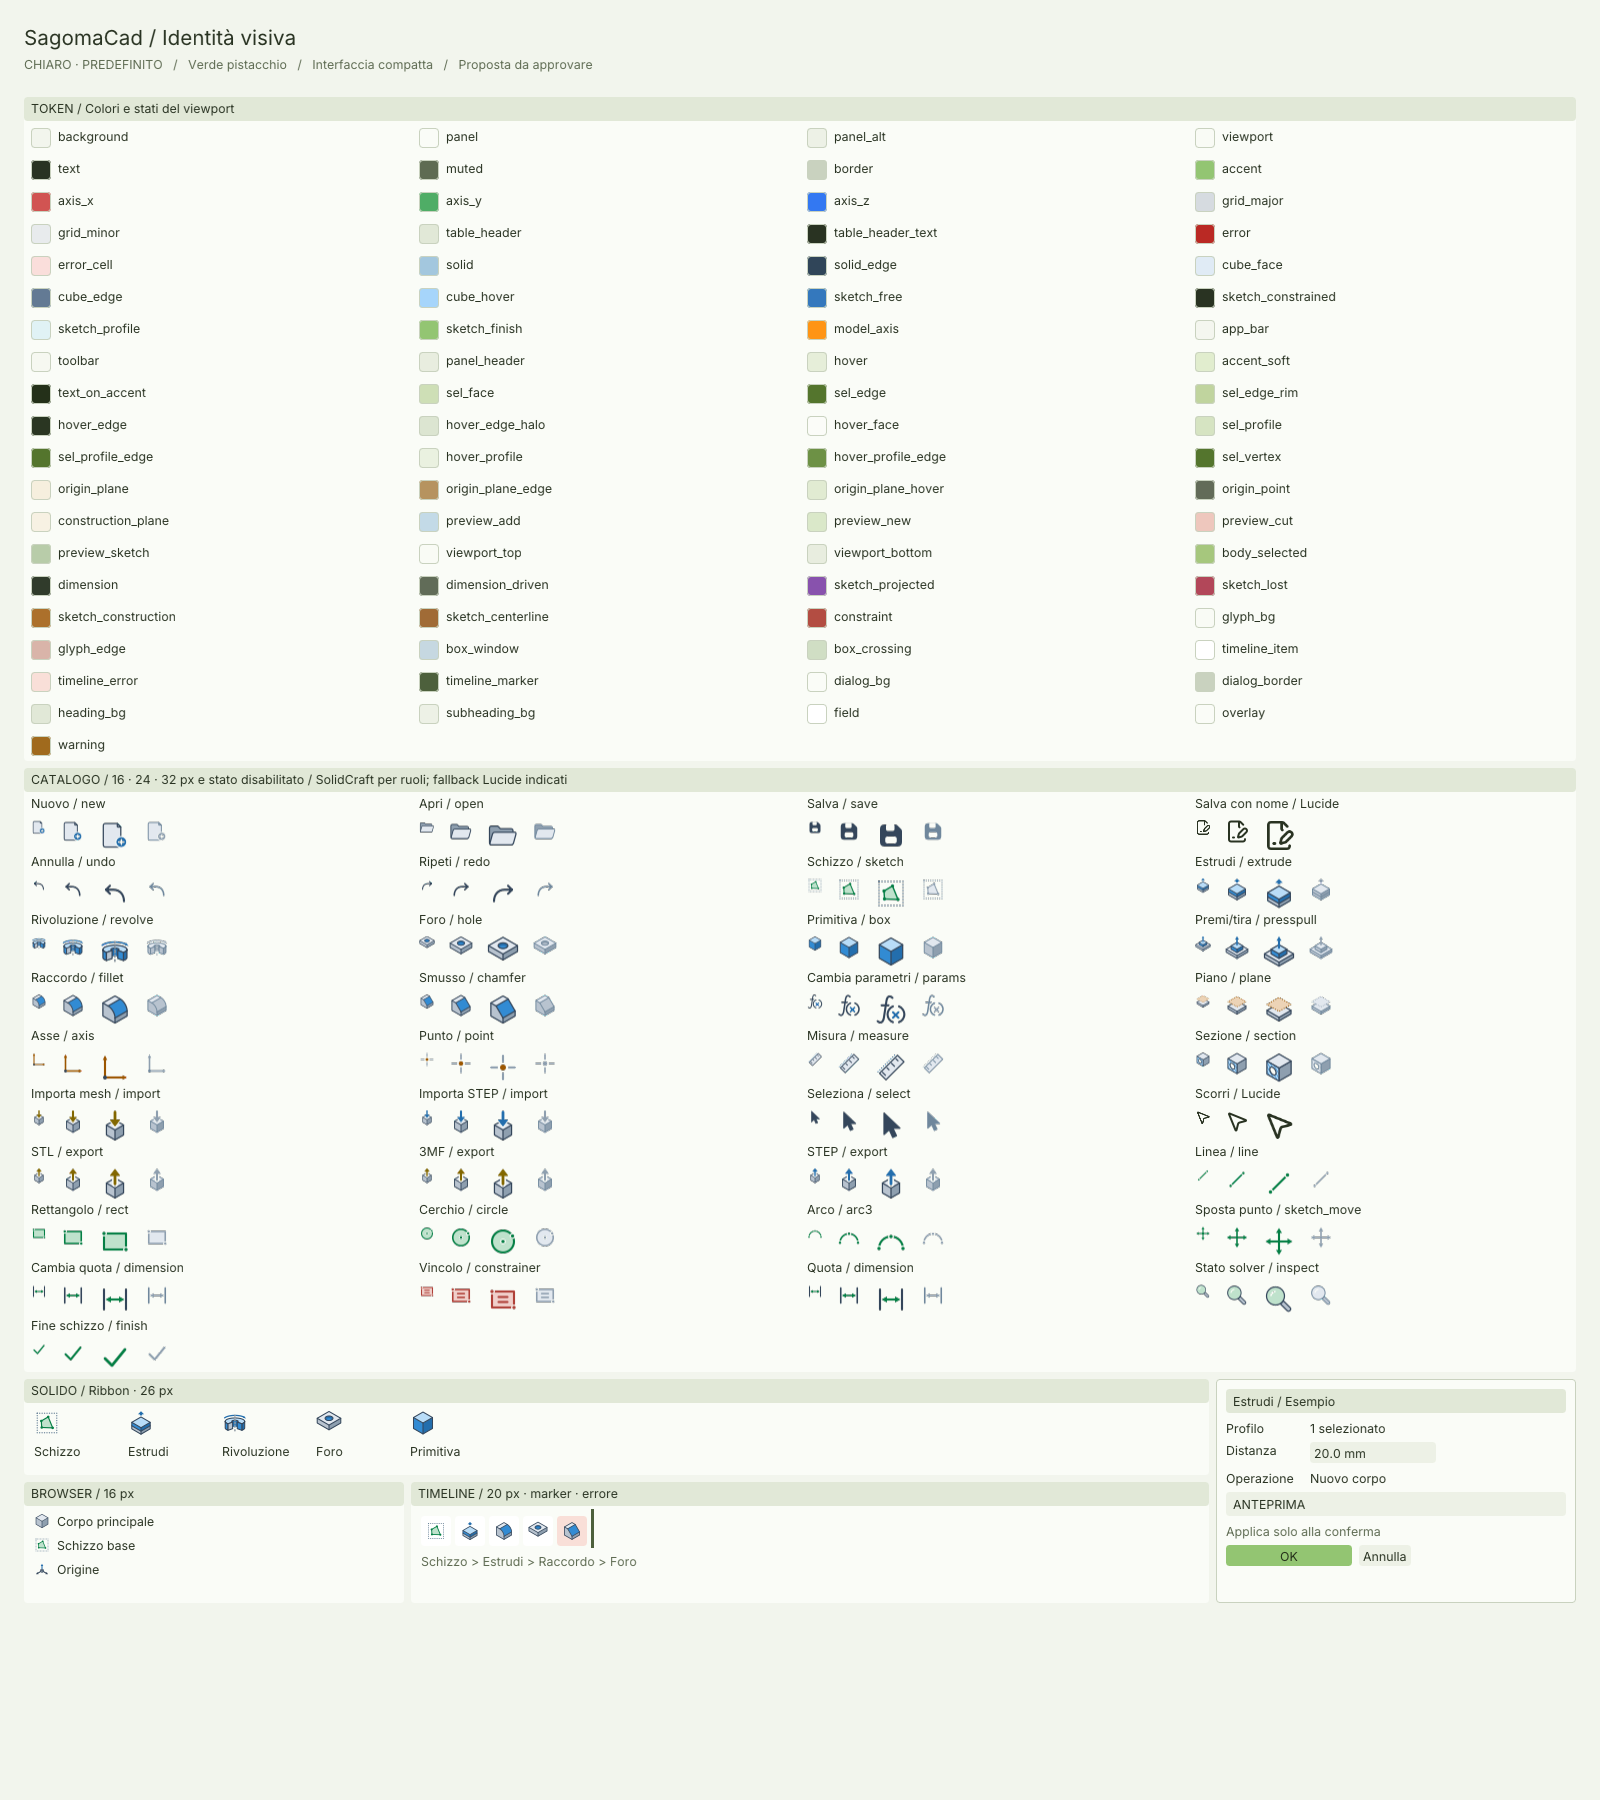
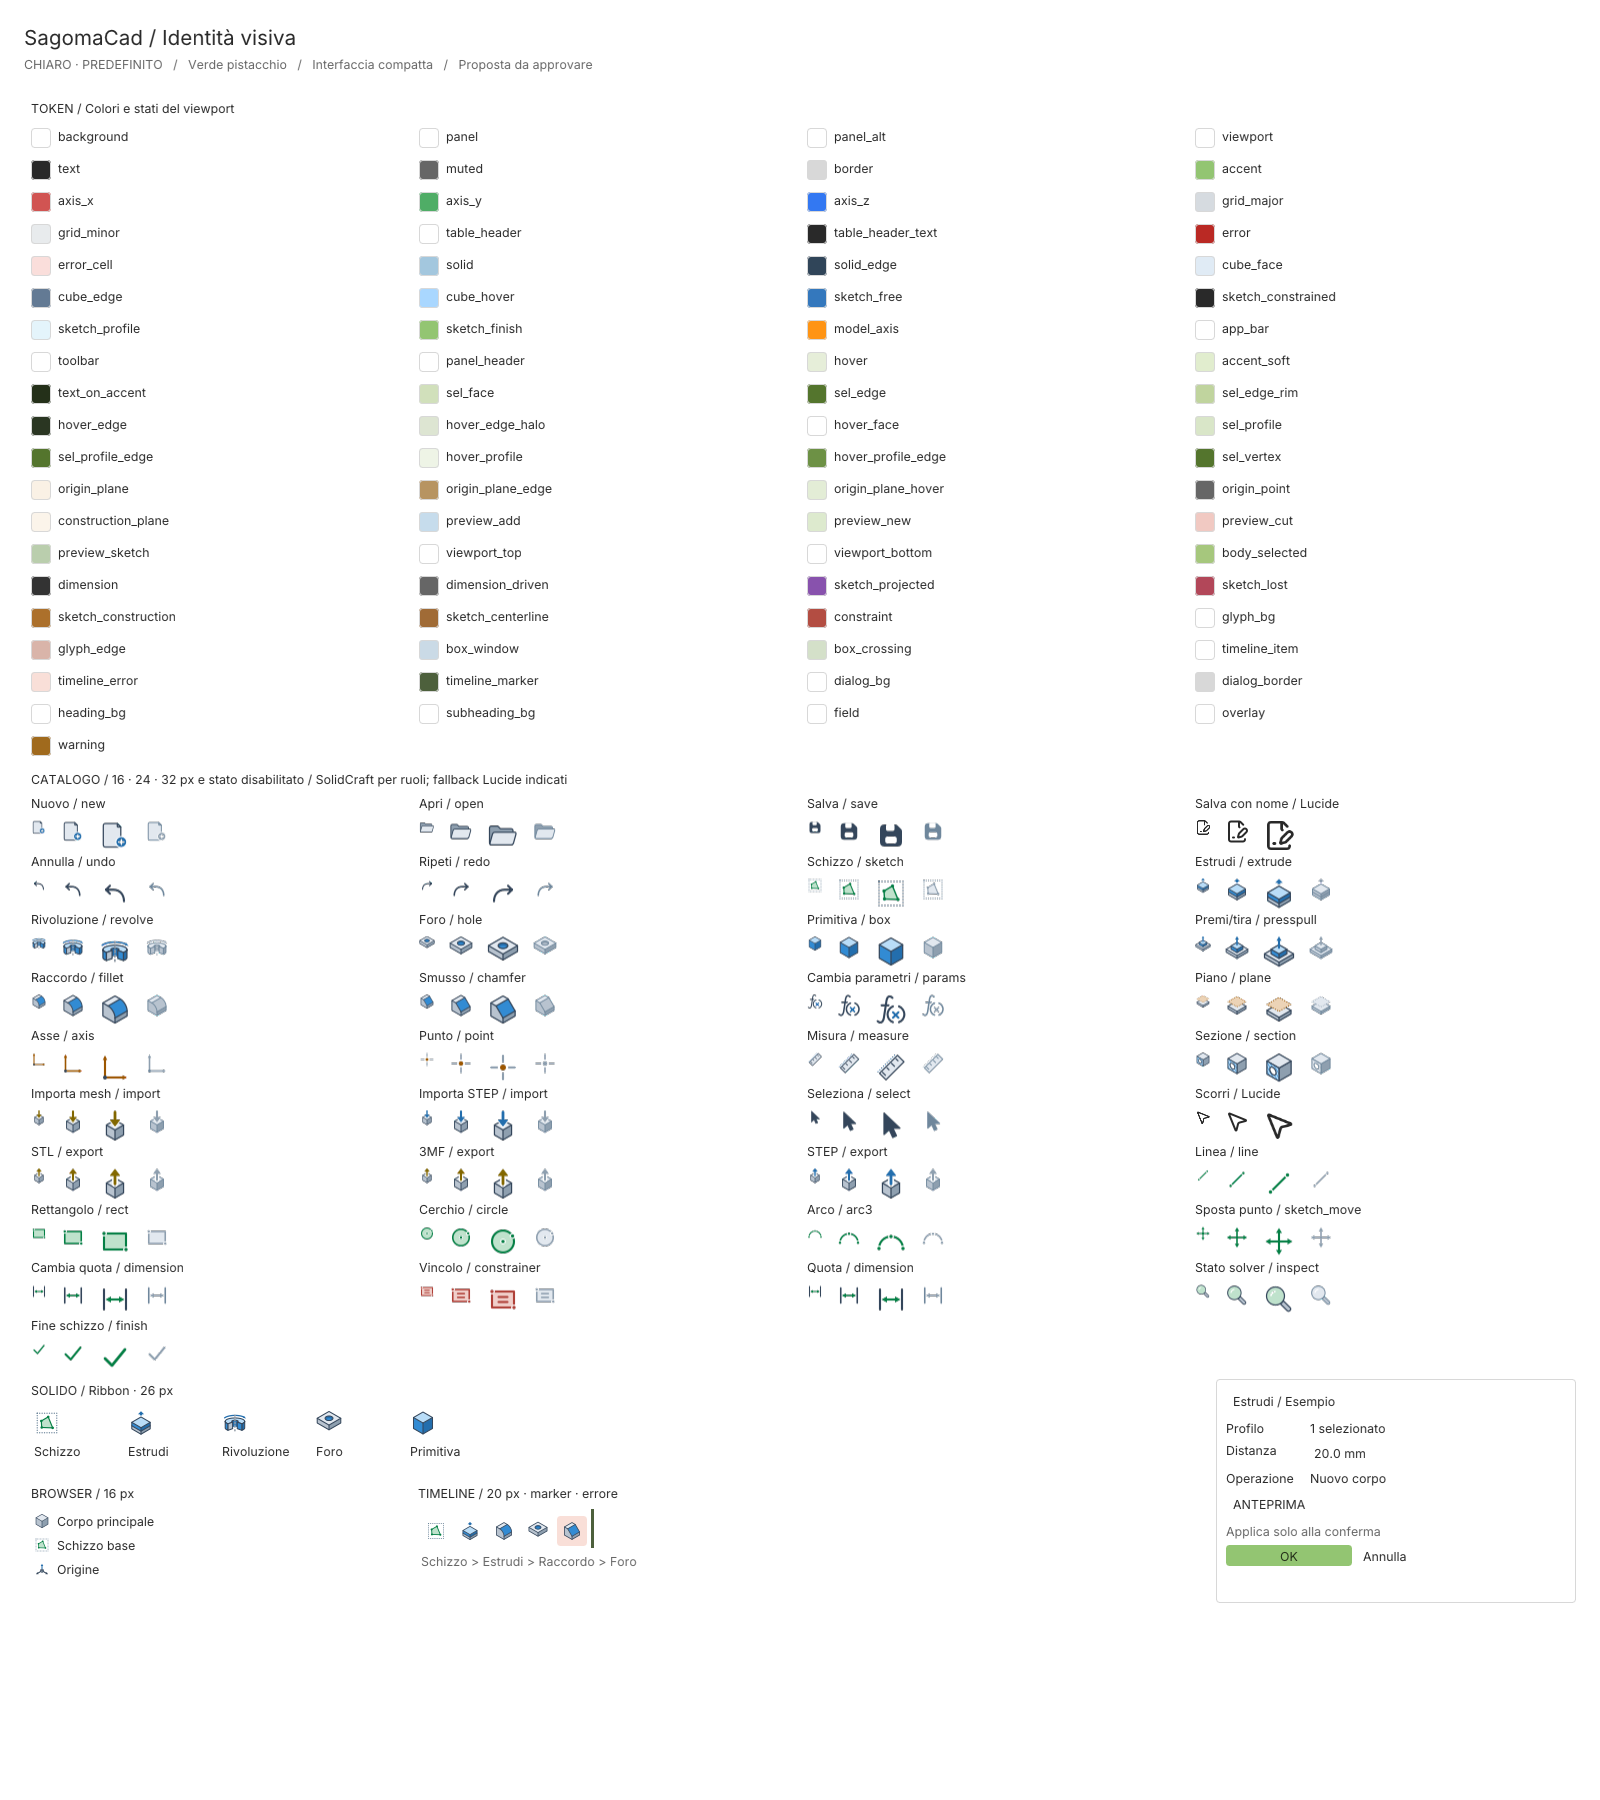
tema chiaro: sfondi bianchi e pistacchio solo come accento

diff --git a/src/ui/theme.hpp b/src/ui/theme.hpp
@@ -9,9 +9,9 @@ constexpr Color rgb(unsigned value,float alpha=1) {
 }
 // Name, light, dark, opacity. One list drives both themes, the board and validation.
 #define SAGOMACAD_VISUAL_COLORS(X) \
-    X(app_bar,0xf4f6ef,0x191f1b,1) \
-    X(toolbar,0xf6f8f1,0x202821,1) \
-    X(panel_header,0xe8eddf,0x2b352c,1) \
+    X(app_bar,0xffffff,0x191f1b,1) \
+    X(toolbar,0xffffff,0x202821,1) \
+    X(panel_header,0xffffff,0x2b352c,1) \
     X(hover,0xe6eed9,0x35442d,1) \
     X(accent_soft,0xe1edce,0x34472a,1) \
     X(text_on_accent,0x243019,0x243019,1) \
@@ -29,35 +29,35 @@ constexpr Color rgb(unsigned value,float alpha=1) {
     X(origin_plane,0xe7ba7c,0xd8a569,.20f) \
     X(origin_plane_edge,0x9f702c,0xe5b77b,.75f) \
     X(origin_plane_hover,0xc2d6a4,0xa4c478,.45f) \
-    X(origin_point,0x626b58,0xcbd5bf,1) \
+    X(origin_point,0x666666,0xcbd5bf,1) \
     X(construction_plane,0xe7ba7c,0xd8a569,.16f) \
     X(preview_add,0x5b9bc9,0x79b4dd,.35f) \
     X(preview_new,0x9fc472,0xb5d18b,.35f) \
     X(preview_cut,0xd86550,0xef8873,.35f) \
     X(preview_sketch,0x679249,0xa5c980,.45f) \
-    X(viewport_top,0xf9fbf5,0x202820,1) \
-    X(viewport_bottom,0xe8eddf,0x151c17,1) \
+    X(viewport_top,0xffffff,0x202820,1) \
+    X(viewport_bottom,0xffffff,0x151c17,1) \
     X(body_selected,0xa6c77d,0xb2cc8e,1) \
-    X(dimension,0x303b2b,0xe3ecd9,1) \
-    X(dimension_driven,0x616c58,0xa4b297,1) \
+    X(dimension,0x333333,0xe3ecd9,1) \
+    X(dimension_driven,0x666666,0xa4b297,1) \
     X(sketch_projected,0x8852ad,0xbf8de1,1) \
     X(sketch_lost,0xb24759,0xf08b9a,1) \
     X(sketch_construction,0xac702b,0xe4af67,1) \
     X(sketch_centerline,0xa06b36,0xd8a36a,1) \
     X(constraint,0xb34d42,0xe38c7e,1) \
-    X(glyph_bg,0xf9fbf5,0x242d24,.94f) \
+    X(glyph_bg,0xffffff,0x242d24,.94f) \
     X(glyph_edge,0xd9b4a9,0x80574a,1) \
     X(box_window,0x4f86ad,0x82bbdd,.30f) \
     X(box_crossing,0x70994d,0xa5cb79,.30f) \
     X(timeline_item,0xffffff,0x303b2e,1) \
     X(timeline_error,0xf9dfd8,0x5c332d,1) \
     X(timeline_marker,0x4d603c,0xb8d48f,1) \
-    X(dialog_bg,0xfafcf7,0x242e25,1) \
-    X(dialog_border,0xc9d2bf,0x4e5d46,1) \
-    X(heading_bg,0xe1e8d7,0x35412f,1) \
-    X(subheading_bg,0xedf1e6,0x2c3728,1) \
+    X(dialog_bg,0xffffff,0x242e25,1) \
+    X(dialog_border,0xd8d8d8,0x4e5d46,1) \
+    X(heading_bg,0xffffff,0x35412f,1) \
+    X(subheading_bg,0xffffff,0x2c3728,1) \
     X(field,0xffffff,0x1c251d,1) \
-    X(overlay,0xfafcf7,0x242e25,.94f) \
+    X(overlay,0xffffff,0x242e25,.94f) \
     X(warning,0xa06a1d,0xe5b15c,1)
 struct VisualTokens {
 #define SAGOMA_FIELD(name,l,d,a) Color name{};
@@ -182,10 +182,10 @@ constexpr Theme make_theme(Theme t,bool light) {
     SAGOMACAD_VISUAL_COLORS(SAGOMA_VALUE)
 #undef SAGOMA_VALUE
     t.accent=rgb(light?0x93c572:0xb1ce8a);
-    t.background=rgb(light?0xf2f5ed:0x192119);
+    t.background=rgb(light?0xffffff:0x192119);
     t.panel=t.visual.dialog_bg;t.panel_alt=t.visual.subheading_bg;
     t.viewport=t.visual.viewport_top;t.border=t.visual.dialog_border;
-    t.text=rgb(light?0x293322:0xe6eddd);t.muted=rgb(light?0x5e6b52:0xa7b59a);
+    t.text=rgb(light?0x292929:0xe6eddd);t.muted=rgb(light?0x666666:0xa7b59a);
     t.table_header=t.visual.heading_bg;t.table_header_text=t.text;
     t.sketch.constrained=t.text;t.sketch.finish=t.accent;
     t.sketch.free=rgb(light?0x3478bd:0x88b8ee);

diff --git a/tests/theme_tokens.cpp b/tests/theme_tokens.cpp
@@ -24,6 +24,15 @@ int main(int argc,char** argv)try {
         check(contrast(t.muted,t.panel)>=4.5,"secondary text contrast");
         check(contrast(t.table_header_text,t.table_header)>=4.5,"table heading contrast");
         check(contrast(t.visual.text_on_accent,t.accent)>=4.5,"primary button contrast");
+        if(is_light) {
+            for(auto surface:{t.background,t.panel,t.panel_alt,t.viewport,t.table_header,
+                t.visual.app_bar,t.visual.toolbar,t.visual.panel_header,t.visual.dialog_bg,
+                t.visual.heading_bg,t.visual.subheading_bg,t.visual.field,
+                t.visual.viewport_top,t.visual.viewport_bottom,t.visual.overlay,t.visual.glyph_bg})
+                check(surface.r==1&&surface.g==1&&surface.b==1,"ordinary light surfaces must be white");
+            for(auto neutral:{t.text,t.muted,t.border})
+                check(neutral.r==neutral.g&&neutral.g==neutral.b,"neutral UI must have no green tint");
+        }
         std::cout<<(is_light?"light":"dark")<<": "<<names.size()<<" tokens, text contrast "<<contrast(t.text,t.panel)<<", secondary "<<contrast(t.muted,t.panel)<<'\n';
     }
     const std::regex literal(R"((?:\bColor(?:\s+\w+)?|\bImVec4)\s*\{\s*[.0-9]|\bIM_COL32\s*\(\s*[.0-9]|(?:ColorConvertFloat4ToU32|PushStyleColor)\s*\([^\n]*\{\s*[.0-9]|\bglClearColor\s*\(\s*[.0-9])");

diff --git a/log/devlog.md b/log/devlog.md
@@ -385,3 +385,8 @@ Nuovo `sagomacad-cli design-board`, anche MCP `design_board`: tavole PNG 1600×1
 Verifica locale Windows: build Release isolata in `build/agent-phase9` (CLI in agent-root occupato, lasciato attivo); **57/57 ctest** passati in 40.24 s, controllo livelli, import SVG, parità, regola finestre e UTF-8 verdi. Fuzz: 260 casi su 42 comandi e 222 casi MCP. Test MCP della tavola verifica immagini, argomenti invalidi e invarianza del documento/storia. Nessuna verifica o esecuzione CI remota.
 
 Resta aperta l’approvazione dell’utente sulle due tavole: non sono state copiate in `docs/design/approvate/`. Solo dopo la conferma si applicano le icone a ribbon/browser/timeline/menu (9.8), si completa la documentazione e si verifica la fase. Branch `phase/9`, nessun merge su main.
+
+
+## 2026-10-17 — Correzione degli sfondi del tema chiaro
+
+Precisazione dell’utente: bianco puro in tutta l’app, pistacchio solo come accento. Corretti sfondo generale, viewport, ribbon, pannelli, intestazioni, dialog e campi; testi e bordi neutri. Aggiunto controllo dei token per sfondi bianchi e neutrali senza dominante verde. Contrasto testo 14.55:1, secondario 5.74:1. Tavola chiara rigenerata; quattro screenshot nei due temi e alle due dimensioni ispezionati. Build Release e 57/57 test locali passati. Resta l’approvazione delle tavole prevista dal task 9.7.

diff --git a/docs/design/README.md b/docs/design/README.md
@@ -4,8 +4,8 @@
 
 2026-10-17, indicazioni esplicite dell’utente:
 - Riferimento visivo: SolidCraft in `../solidcraft-ref`; nessuno screenshot di ispirazione richiesto.
-- Tema predefinito: chiaro.
-- Accento principale: verde pistacchio.
+- Tema predefinito: chiaro, con sfondi bianchi (#ffffff) in tutta l’app, inclusi ribbon, pannelli, intestazioni, dialog e viewport (precisazione dell’utente del 2026-10-17).
+- Accento principale: verde pistacchio, riservato agli accenti e agli stati di interazione; nessuna tinta verde negli sfondi ordinari. Testi e bordi neutri.
 - Densità: compatta come Fusion, con aspetto e asset propri.
 
 La scelta sostituisce il requisito degli screenshot del task 9.0.

diff --git a/docs/.plan/PLAN.md b/docs/.plan/PLAN.md
@@ -573,3 +573,5 @@ Il risultato è una mesh, non geometria esatta. Per la stampa FDM va bene: lo sl
 - 2026-10-17: ogni fase inizia con un task 0 bloccante che chiede all'utente gli screenshot di riferimento con istruzioni passo passo; senza i file la fase non procede.
 
 - 2026-10-17: su richiesta dell'utente, per la fase 9 SolidCraft (`../solidcraft-ref`) sostituisce gli screenshot di ispirazione. Tema chiaro predefinito, accento verde pistacchio, densita compatta come Fusion.
+
+- 2026-10-17: precisazione dell’utente sul tema chiaro: background bianco in tutta l’app; verde pistacchio esclusivamente come accento, senza dominante verde negli sfondi.
